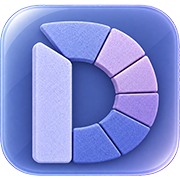
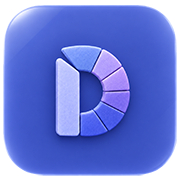
Edit

diff --git a/src/pages/ResetPassword.jsx b/src/pages/ResetPassword.jsx
@@ -64,7 +64,7 @@ export default function ResetPassword() {
       <div className="auth-page-toggle"><ThemeToggleButton /></div>
       <div className="auth-card">
         <div className="auth-brand">
-          <div className="auth-brand-mark"></div>
+          <div className="auth-brand-mark"><img src="/icon-512.png" alt="Dapur MUA" /></div>
           <div className="auth-brand-name">Dapur MUA</div>
         </div>
 

diff --git a/src/pages/LupaPassword.jsx b/src/pages/LupaPassword.jsx
@@ -54,7 +54,7 @@ export default function LupaPassword() {
       <div className="auth-page-toggle"><ThemeToggleButton /></div>
       <div className="auth-card">
         <div className="auth-brand">
-          <div className="auth-brand-mark"></div>
+        <div className="auth-brand-mark"><img src="/icon-512.png" alt="Dapur MUA" /></div>
           <div className="auth-brand-name">Dapur MUA</div>
         </div>
 

diff --git a/src/pages/Register.jsx b/src/pages/Register.jsx
@@ -85,7 +85,7 @@ export default function Register() {
       <div className="auth-page-toggle"><ThemeToggleButton /></div>
       <div className="auth-card">
         <div className="auth-brand">
-          <div className="auth-brand-mark"></div>
+          <div className="auth-brand-mark"><img src="/icon-512.png" alt="Dapur MUA" /></div>
           <div className="auth-brand-name">Dapur MUA</div>
         </div>
 

diff --git a/src/pages/Auth.css b/src/pages/Auth.css
@@ -24,7 +24,7 @@
 
 .auth-brand {
   display: flex;
-  align-items: flex-end;
+  align-items: center;
   gap: 10px;
   margin-bottom: 28px;
 }
@@ -47,7 +47,7 @@
 
 .auth-brand-name {
   font-family: 'Poppins', sans-serif;
-  font-size: 20px;
+  font-size: 32px;
   font-weight: 700;
 }
 
